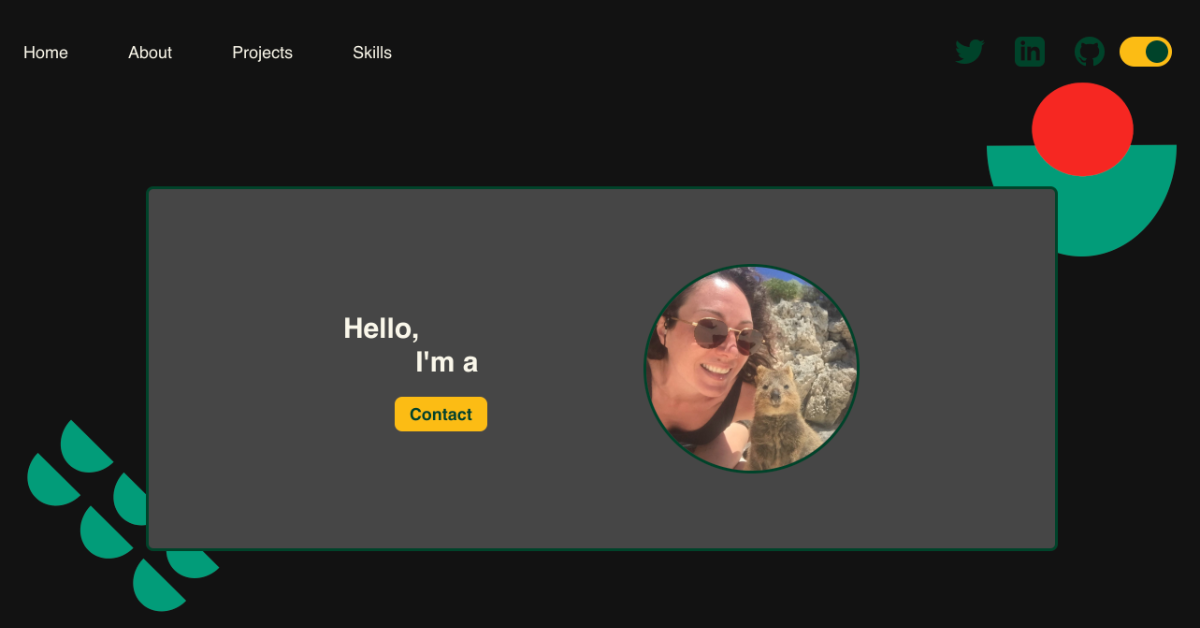
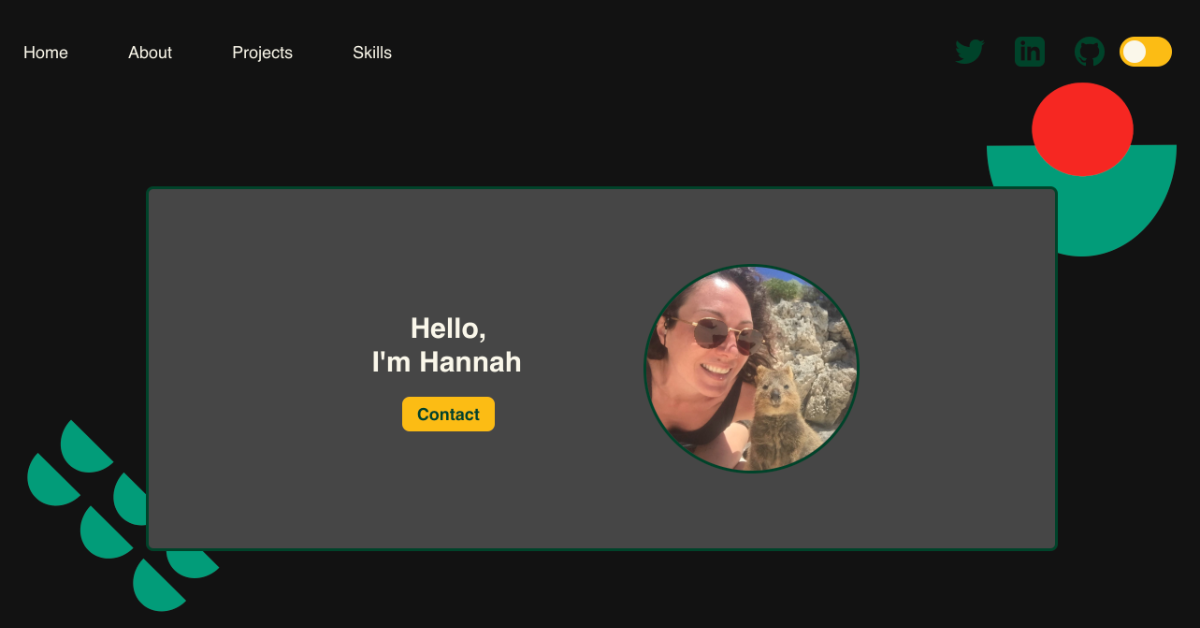
fixing styling

Changed region(s): [[0.2775, 0.5143, 0.4317, 0.6051], [0.3083, 0.6354, 0.4317, 0.6959], [0.925, 0.0605, 0.9867, 0.121]]

diff --git a/src/components/hero/hero.js b/src/components/hero/hero.js
@@ -105,14 +105,14 @@ function Hero({ messages }) {
       >
         <div className='main-text flex w-full justify-center space-x-2 sm:space-x-6 md:space-x-24'>
           <div className='cta-info flex flex-col justify-center '>
-            <h2 className='text-2xl md:text-3xl flex flex-col md:items-start'>
+            <h2 className='text-2xl md:text-3xl flex flex-col'>
               Hello,
               <div className='message'>
                 <span>{state.text}</span>
                 <span id='cursor' />
               </div>
             </h2>
-            <div className='items-center mr-4 mt-6'>
+            <div className='items-center mt-6'>
               <a
                 className='contact-btn py-2 px-4 items-center rounded-lg cursor-pointer'
                 href='/#contact'
